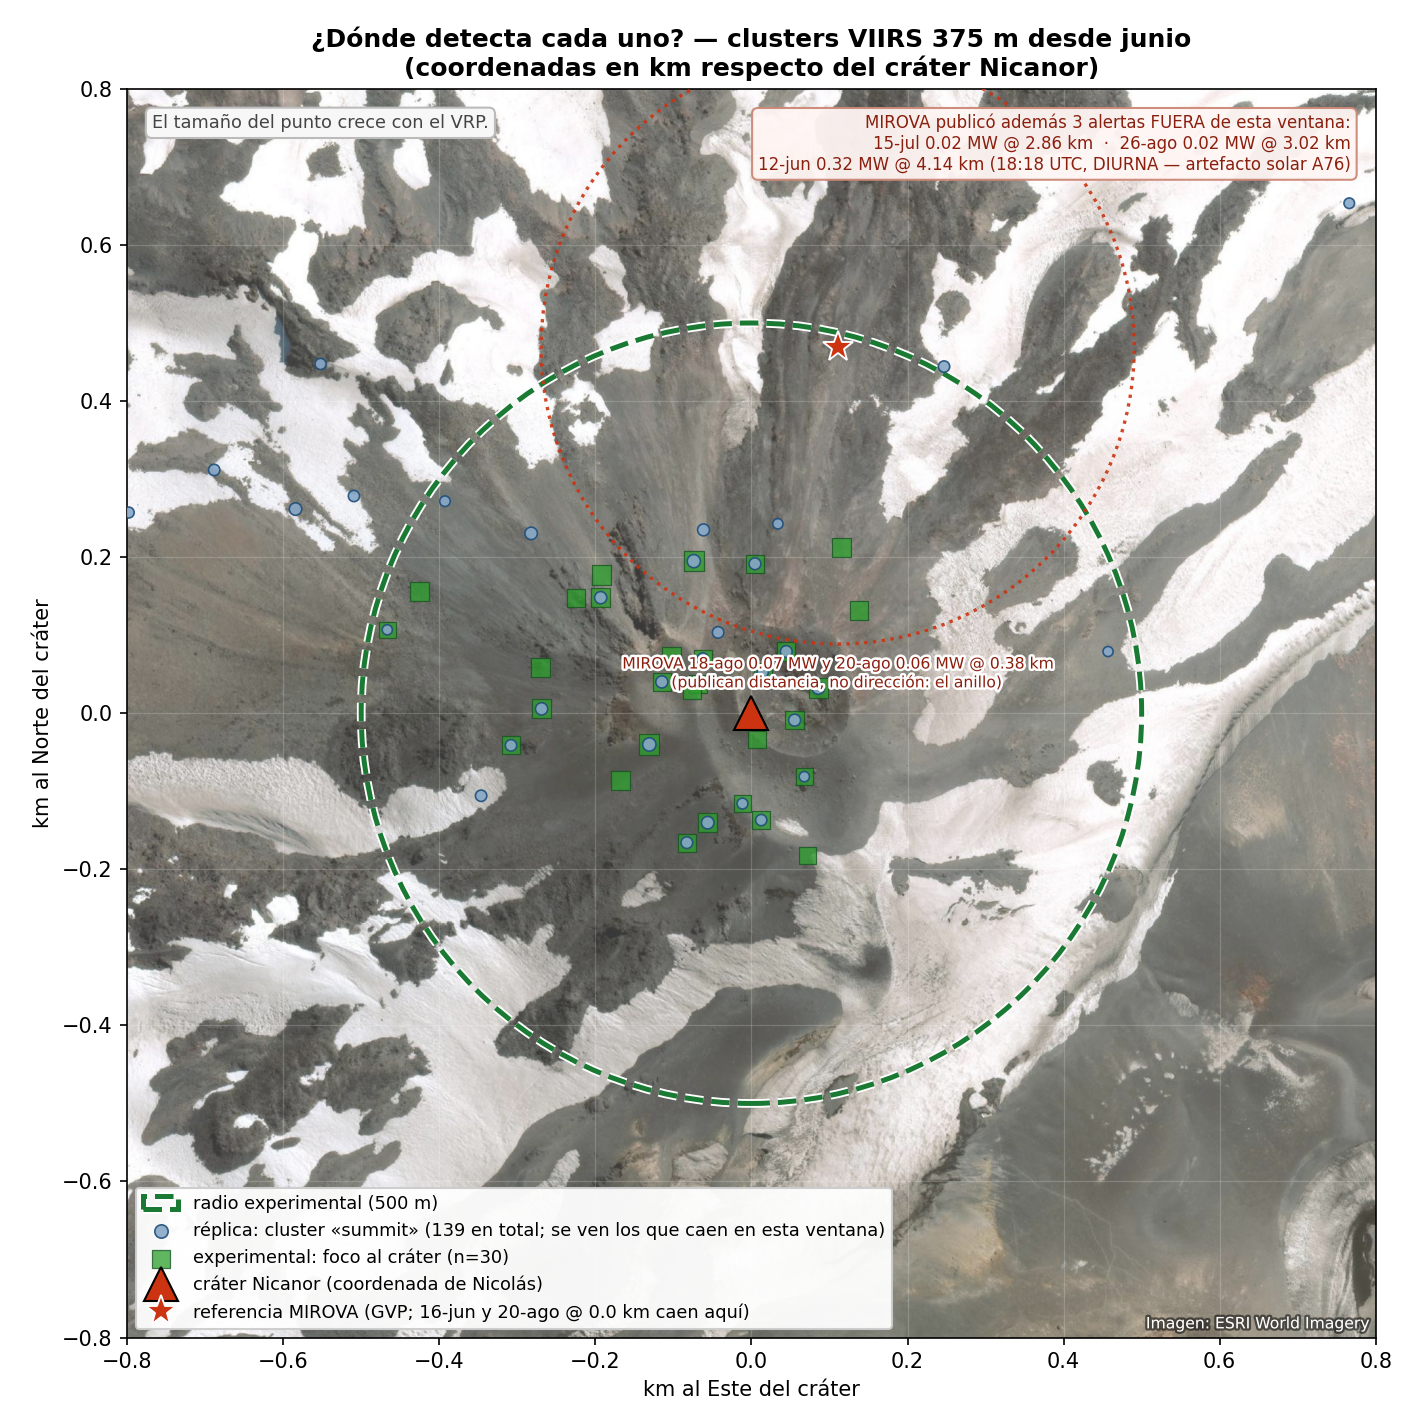
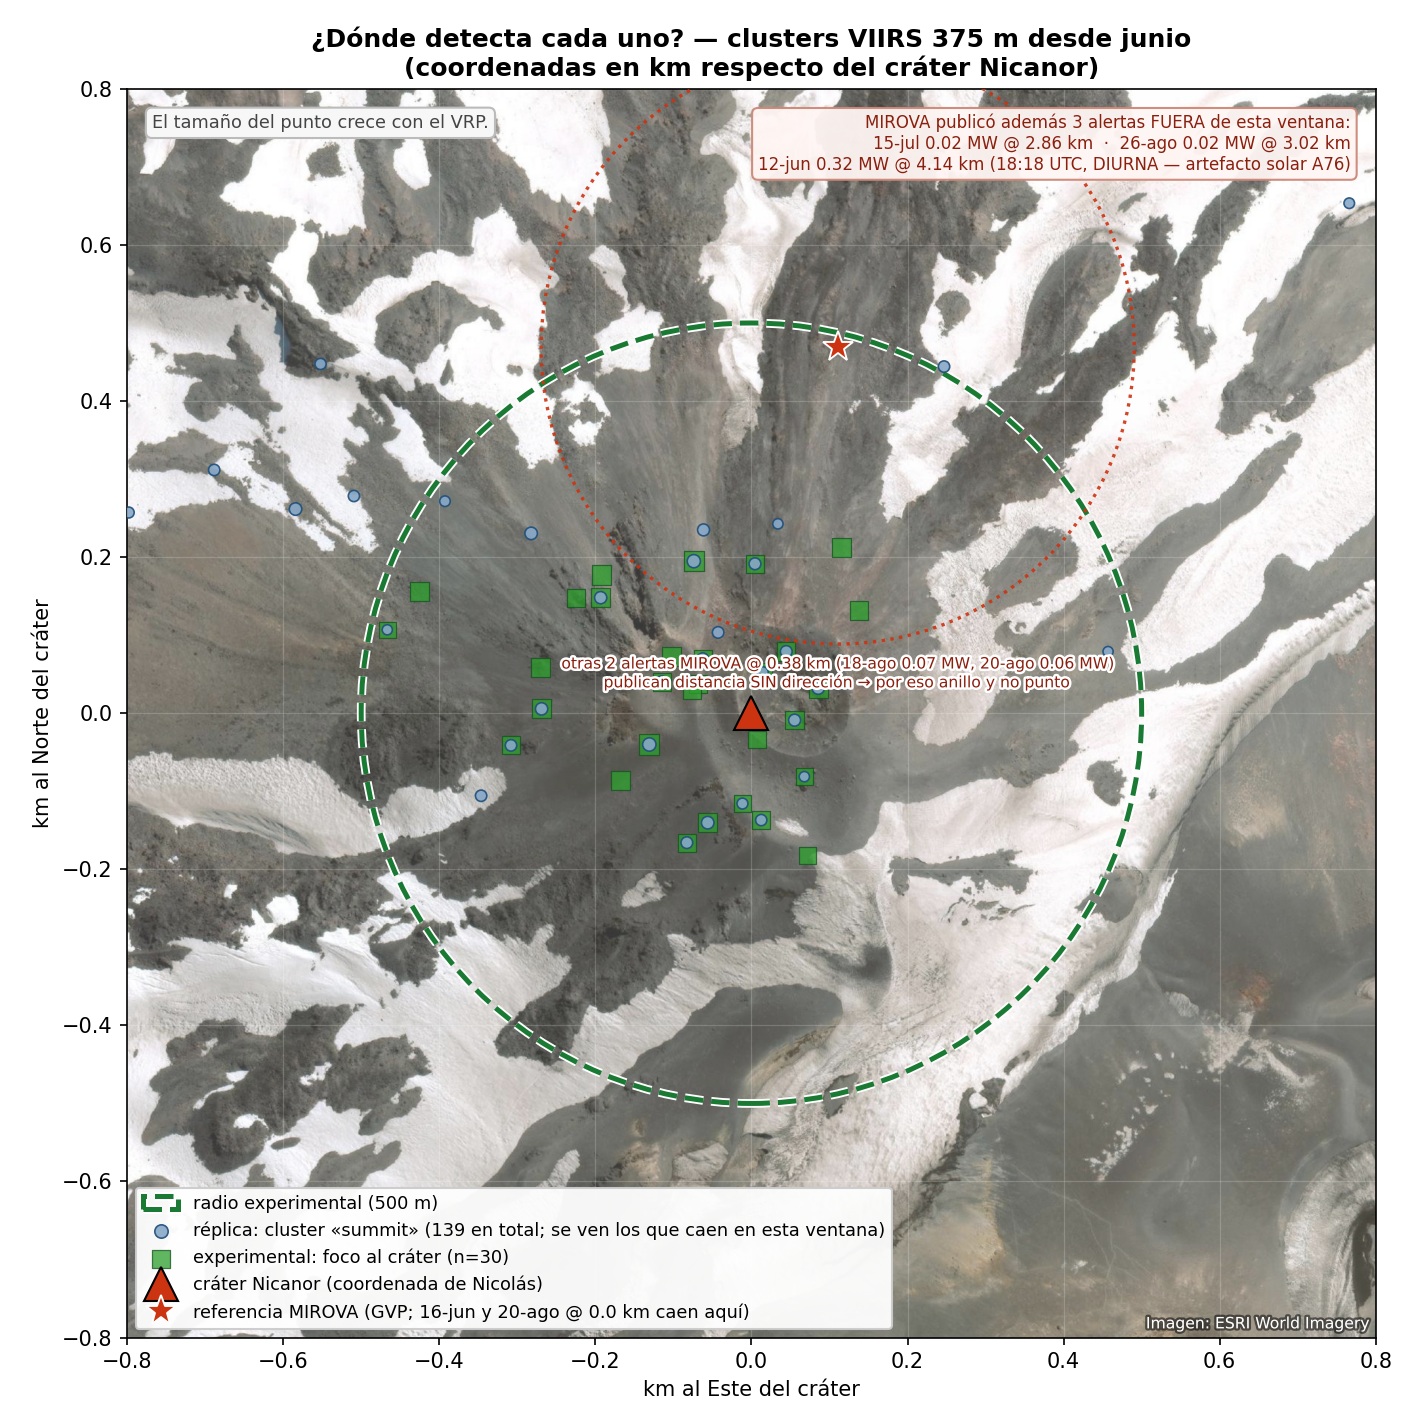
docs(s124): aclarar en el mapa que un simbolo agrupa varias alertas MIROVA
Nicolas pregunto por que se ve UNA sola estrella habiendo 6 alertas. Porque
MIROVA publica distancia SIN direccion, asi que no se puede poner un punto por
alerta: 2 alertas caen en la referencia (dist 0.0), 2 en el anillo de 0.38 km y
3 quedan fuera de la ventana (2.86-4.14 km). Siete registros en tres simbolos.
Las etiquetas ahora dicen cuantas alertas representa cada uno.

Changed region(s): [[0.4014, 0.4323, 0.7719, 0.494]]

diff --git a/experiments/_s124_ndc_focus/plot_mapa.py b/experiments/_s124_ndc_focus/plot_mapa.py
@@ -114,8 +114,8 @@ ax.plot(gx, gy, "*", ms=15, c="#cc3311", mec="white", mew=0.9, zorder=6,
 c = plt.Circle((gx, gy), 0.38, fill=False, color="#cc3311", lw=1.6, ls=":",
                zorder=6, alpha=0.9)
 ax.add_patch(c)
-ax.annotate("MIROVA 18-ago 0.07 MW y 20-ago 0.06 MW @ 0.38 km\n"
-            "(publican distancia, no dirección: el anillo)",
+ax.annotate("otras 2 alertas MIROVA @ 0.38 km (18-ago 0.07 MW, 20-ago 0.06 MW)\n"
+            "publican distancia SIN dirección → por eso anillo y no punto",
             xy=(gx, gy - 0.38), xytext=(0, -6), textcoords="offset points",
             ha="center", va="top", fontsize=7.5, color="#8a1f0e", zorder=7,
             path_effects=[pe.withStroke(linewidth=2.4, foreground="white")])
